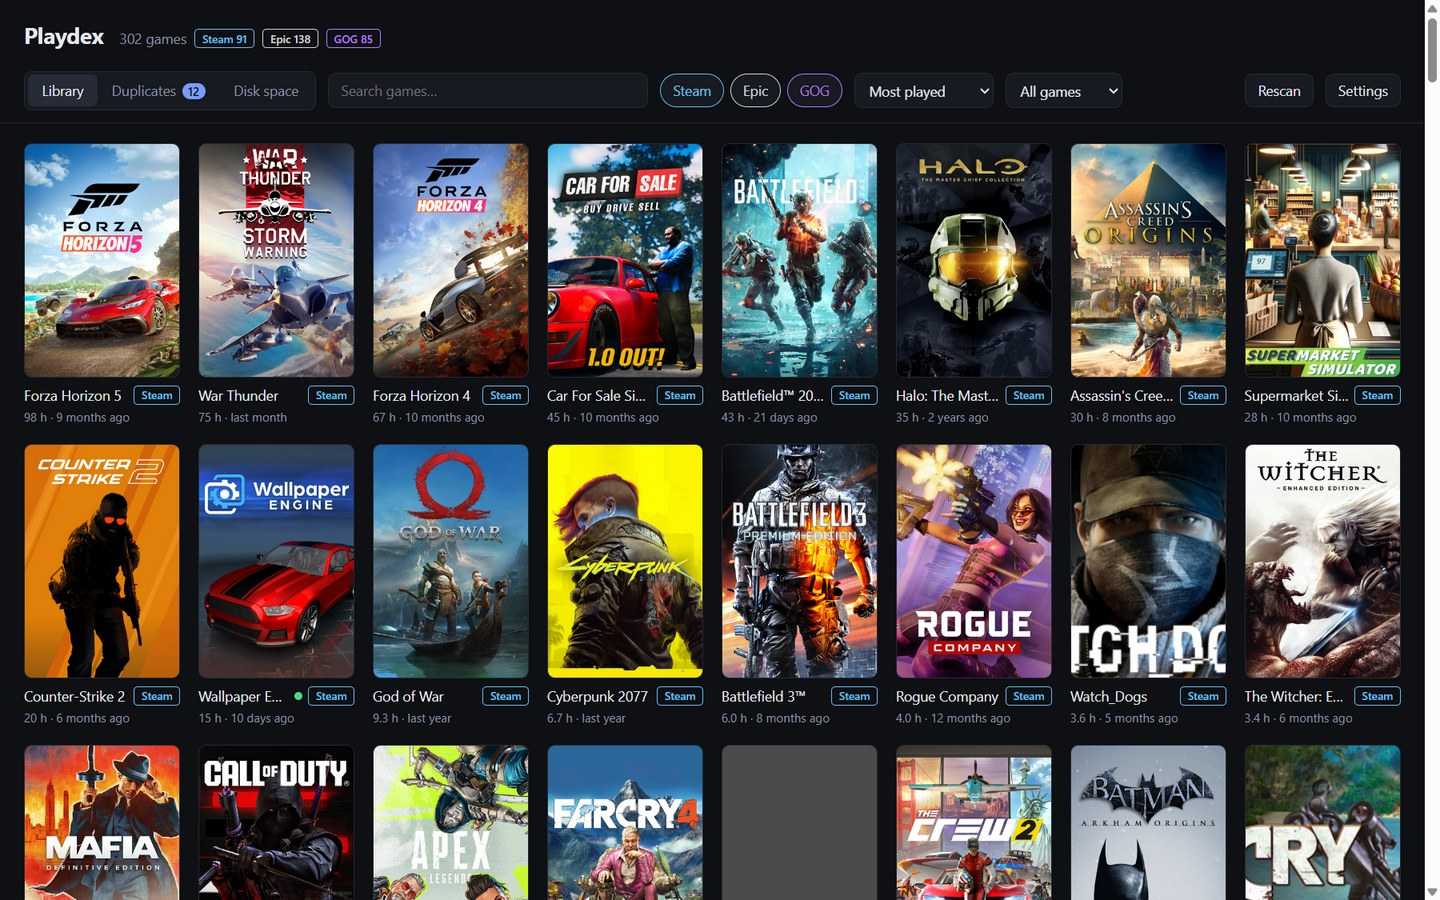
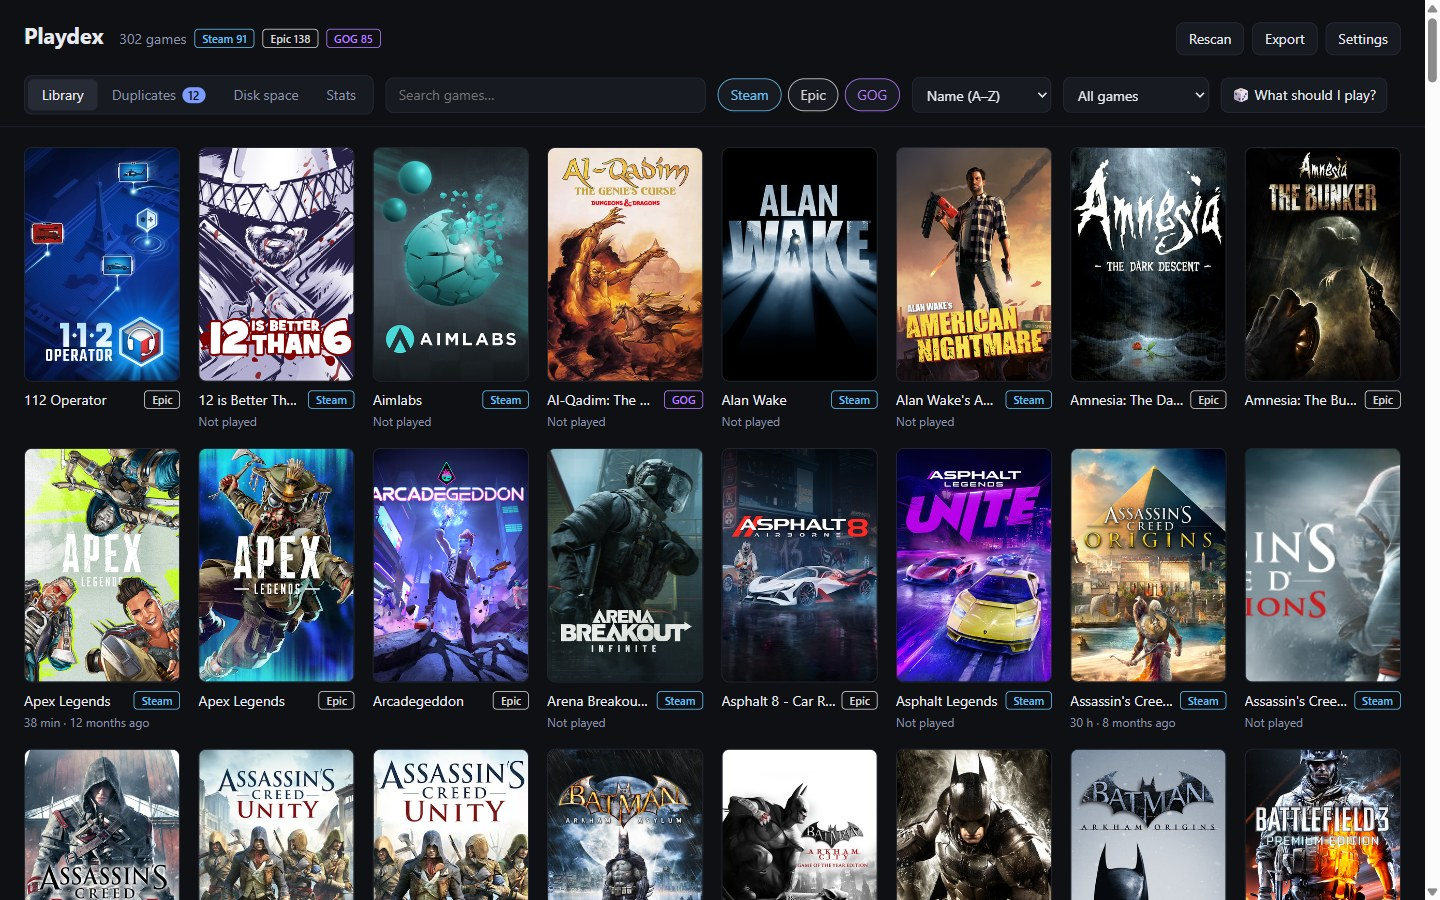
Polish README for the portfolio and fix nav overflow
- README opens with the problem it solves, badges, a demo GIF and a feature list
- Add Design decisions and Screenshots sections; refresh screenshots, add Stats
- Move Rescan, Export and Settings to the header so the nav fits on one line

diff --git a/public/index.html b/public/index.html
@@ -54,7 +54,7 @@
   .card .sub { margin-top: -4px; min-height: 1.4em; font-size: 12px; color: var(--muted); } /* min-height keeps rows aligned */
   label.toggle { display: flex; gap: 6px; align-items: center; color: var(--muted); cursor: pointer; }
   #rescan, #export, #settings { border: 1px solid var(--line); background: var(--panel); padding: 6px 12px; border-radius: 8px; cursor: pointer; }
-  #rescan { margin-left: auto; }
+  .actions { margin-left: auto; display: flex; gap: 8px; } /* app-wide actions; the nav holds what changes the view */
 
   main { padding: 20px 24px 48px; }
   .grid { display: grid; grid-template-columns: repeat(auto-fill, minmax(150px, 1fr)); gap: 18px; }
@@ -145,6 +145,11 @@
 <header>
   <h1>Playdex</h1>
   <div id="stats"></div>
+  <div class="actions">
+    <button id="rescan" title="Rescan your launchers (F5)" aria-keyshortcuts="F5">Rescan</button>
+    <button id="export" title="Save your library as a CSV or JSON file">Export</button>
+    <button id="settings" title="Opens config.json, where you can add a Steam Web API key for an exact Steam library">Settings</button>
+  </div>
 </header>
 <nav>
   <div class="tabs" role="tablist">
@@ -163,9 +168,6 @@
   </select>
   <select id="show" aria-label="Show"><option value="all">All games</option></select>
   <button id="pick" title="Opens a random game from the games shown, installed ones first (P)" aria-keyshortcuts="P">🎲 What should I play?</button>
-  <button id="rescan" title="Rescan your launchers (F5)" aria-keyshortcuts="F5">Rescan</button>
-  <button id="export" title="Save your library as a CSV or JSON file">Export</button>
-  <button id="settings" title="Opens config.json, where you can add a Steam Web API key for an exact Steam library">Settings</button>
 </nav>
 <main id="view"></main>
 <div id="toast" role="status"></div>

diff --git a/README.md b/README.md
@@ -1,12 +1,30 @@
 # Playdex
 
-A desktop app (Electron) that shows all your Steam, Epic and GOG games in one place, and finds games you own on more than one store.
+[![Tests](https://github.com/Divyansh3105/playdex/actions/workflows/tests.yml/badge.svg)](https://github.com/Divyansh3105/playdex/actions/workflows/tests.yml)
+[![Latest release](https://img.shields.io/github/v/release/Divyansh3105/playdex)](https://github.com/Divyansh3105/playdex/releases/latest)
 
-![Playdex library: every Steam, Epic and GOG game in one cover grid, with store badges and per-store counts](docs/screenshot-library.jpg)
+**All your Steam, Epic and GOG games in one place.**
 
-![Duplicates tab: the 12 games owned on more than one store, each with a button per store](docs/screenshot-duplicates.jpg)
+My games are spread across three launchers. Whenever I wanted to play something, I had to open Steam, then Epic,
+then GOG Galaxy, searching each one because I couldn't remember which store had it. Sometimes it turned out I owned
+the same game on two of them. Playdex reads every launcher's data on your PC and shows the whole library in one
+window: search it once, launch any game through its own store, and see what you own twice.
 
-![Game details: description, developer, release date and genres, with an Install button for each store that owns the game](docs/screenshot-details.jpg)
+![Demo: the library, the Not played filter, What should I play?, the Stats tab and the Disk space tab](docs/demo.gif)
+
+## Features
+
+- **One library** across Steam, Epic and GOG: no logins, no API keys, nothing uploaded. Counts match each launcher's own.
+- **Duplicates:** games you own on more than one store.
+- **Playtime and last played** (Steam and GOG), a **Not played** filter, and **🎲 What should I play?** for the backlog.
+- **Stats:** totals, hours played, the share of your library you've played, and your most played games.
+- **Disk space:** free space per drive, games largest first, and **Uninstall…** through the game's own store.
+- **Favorites, hidden games and tags**, **Export** to CSV or JSON, **auto-refresh** and **keyboard shortcuts**.
+
+## Download
+
+Get the installer from the [latest release](https://github.com/Divyansh3105/playdex/releases/latest) (Windows),
+or run from source:
 
 ```
 npm install
@@ -23,6 +41,33 @@ Settings live in `%APPDATA%\Playdex` and are kept on uninstall.
 **The installer isn't code-signed.** Windows SmartScreen will warn ("Windows protected your PC" → More info → Run anyway),
 and on PCs with **Smart App Control** turned on Windows blocks it entirely. Signing the installer fixes both
 (see "Code signing" below). Until then, use `npm start` on those PCs.
+
+## Screenshots
+
+![Playdex library: every Steam, Epic and GOG game in one cover grid, with store badges, playtime and per-store counts](docs/screenshot-library.jpg)
+
+![Duplicates tab: the 12 games owned on more than one store, each with a button per store](docs/screenshot-duplicates.jpg)
+
+![Stats tab: 302 games, hours played, share played, disk use, and the most played games](docs/screenshot-stats.jpg)
+
+![Game details: description, developer, release date and genres, with an Install button for each store that owns the game](docs/screenshot-details.jpg)
+
+## Design decisions
+
+- **Read each launcher's own files instead of using store APIs.** No logins or keys, works offline, and the counts
+  match what each launcher shows. The cost is parsing undocumented formats, such as Steam's binary `appinfo.vdf`
+  (`parseAppInfo` in `scan.mjs`). So every counting rule has a test that builds fake launcher folders.
+- **Treat launcher data as untrusted.** Epic's and GOG's folders under `C:\ProgramData` can be edited by every Windows
+  user. Launch and uninstall commands are built in the main process from exact allowed link shapes (`uriLaunch`),
+  nothing runs through a shell, and the page can only send back a game id.
+- **Copy GOG Galaxy's database before reading it.** Galaxy keeps it open, so Playdex reads a temporary copy with Node's
+  built-in SQLite and never touches the real file.
+- **Let the store do the uninstalling.** Playdex never deletes game files. It doesn't run GOG's `unins000.exe` either,
+  because that path comes from a database other users can edit.
+- **Match duplicates by normalized title** (drop ™/®, edition suffixes like "GOTY", move a trailing ", The").
+  Simple and easy to explain; the known limit is games that have a different name on each store (`normalize`).
+- **No UI framework and no runtime dependencies** besides Electron: one plain JavaScript file for the page, served
+  under a strict Content Security Policy that only allows that file to run.
 
 ## Where the data comes from (read-only, no logins)
 
